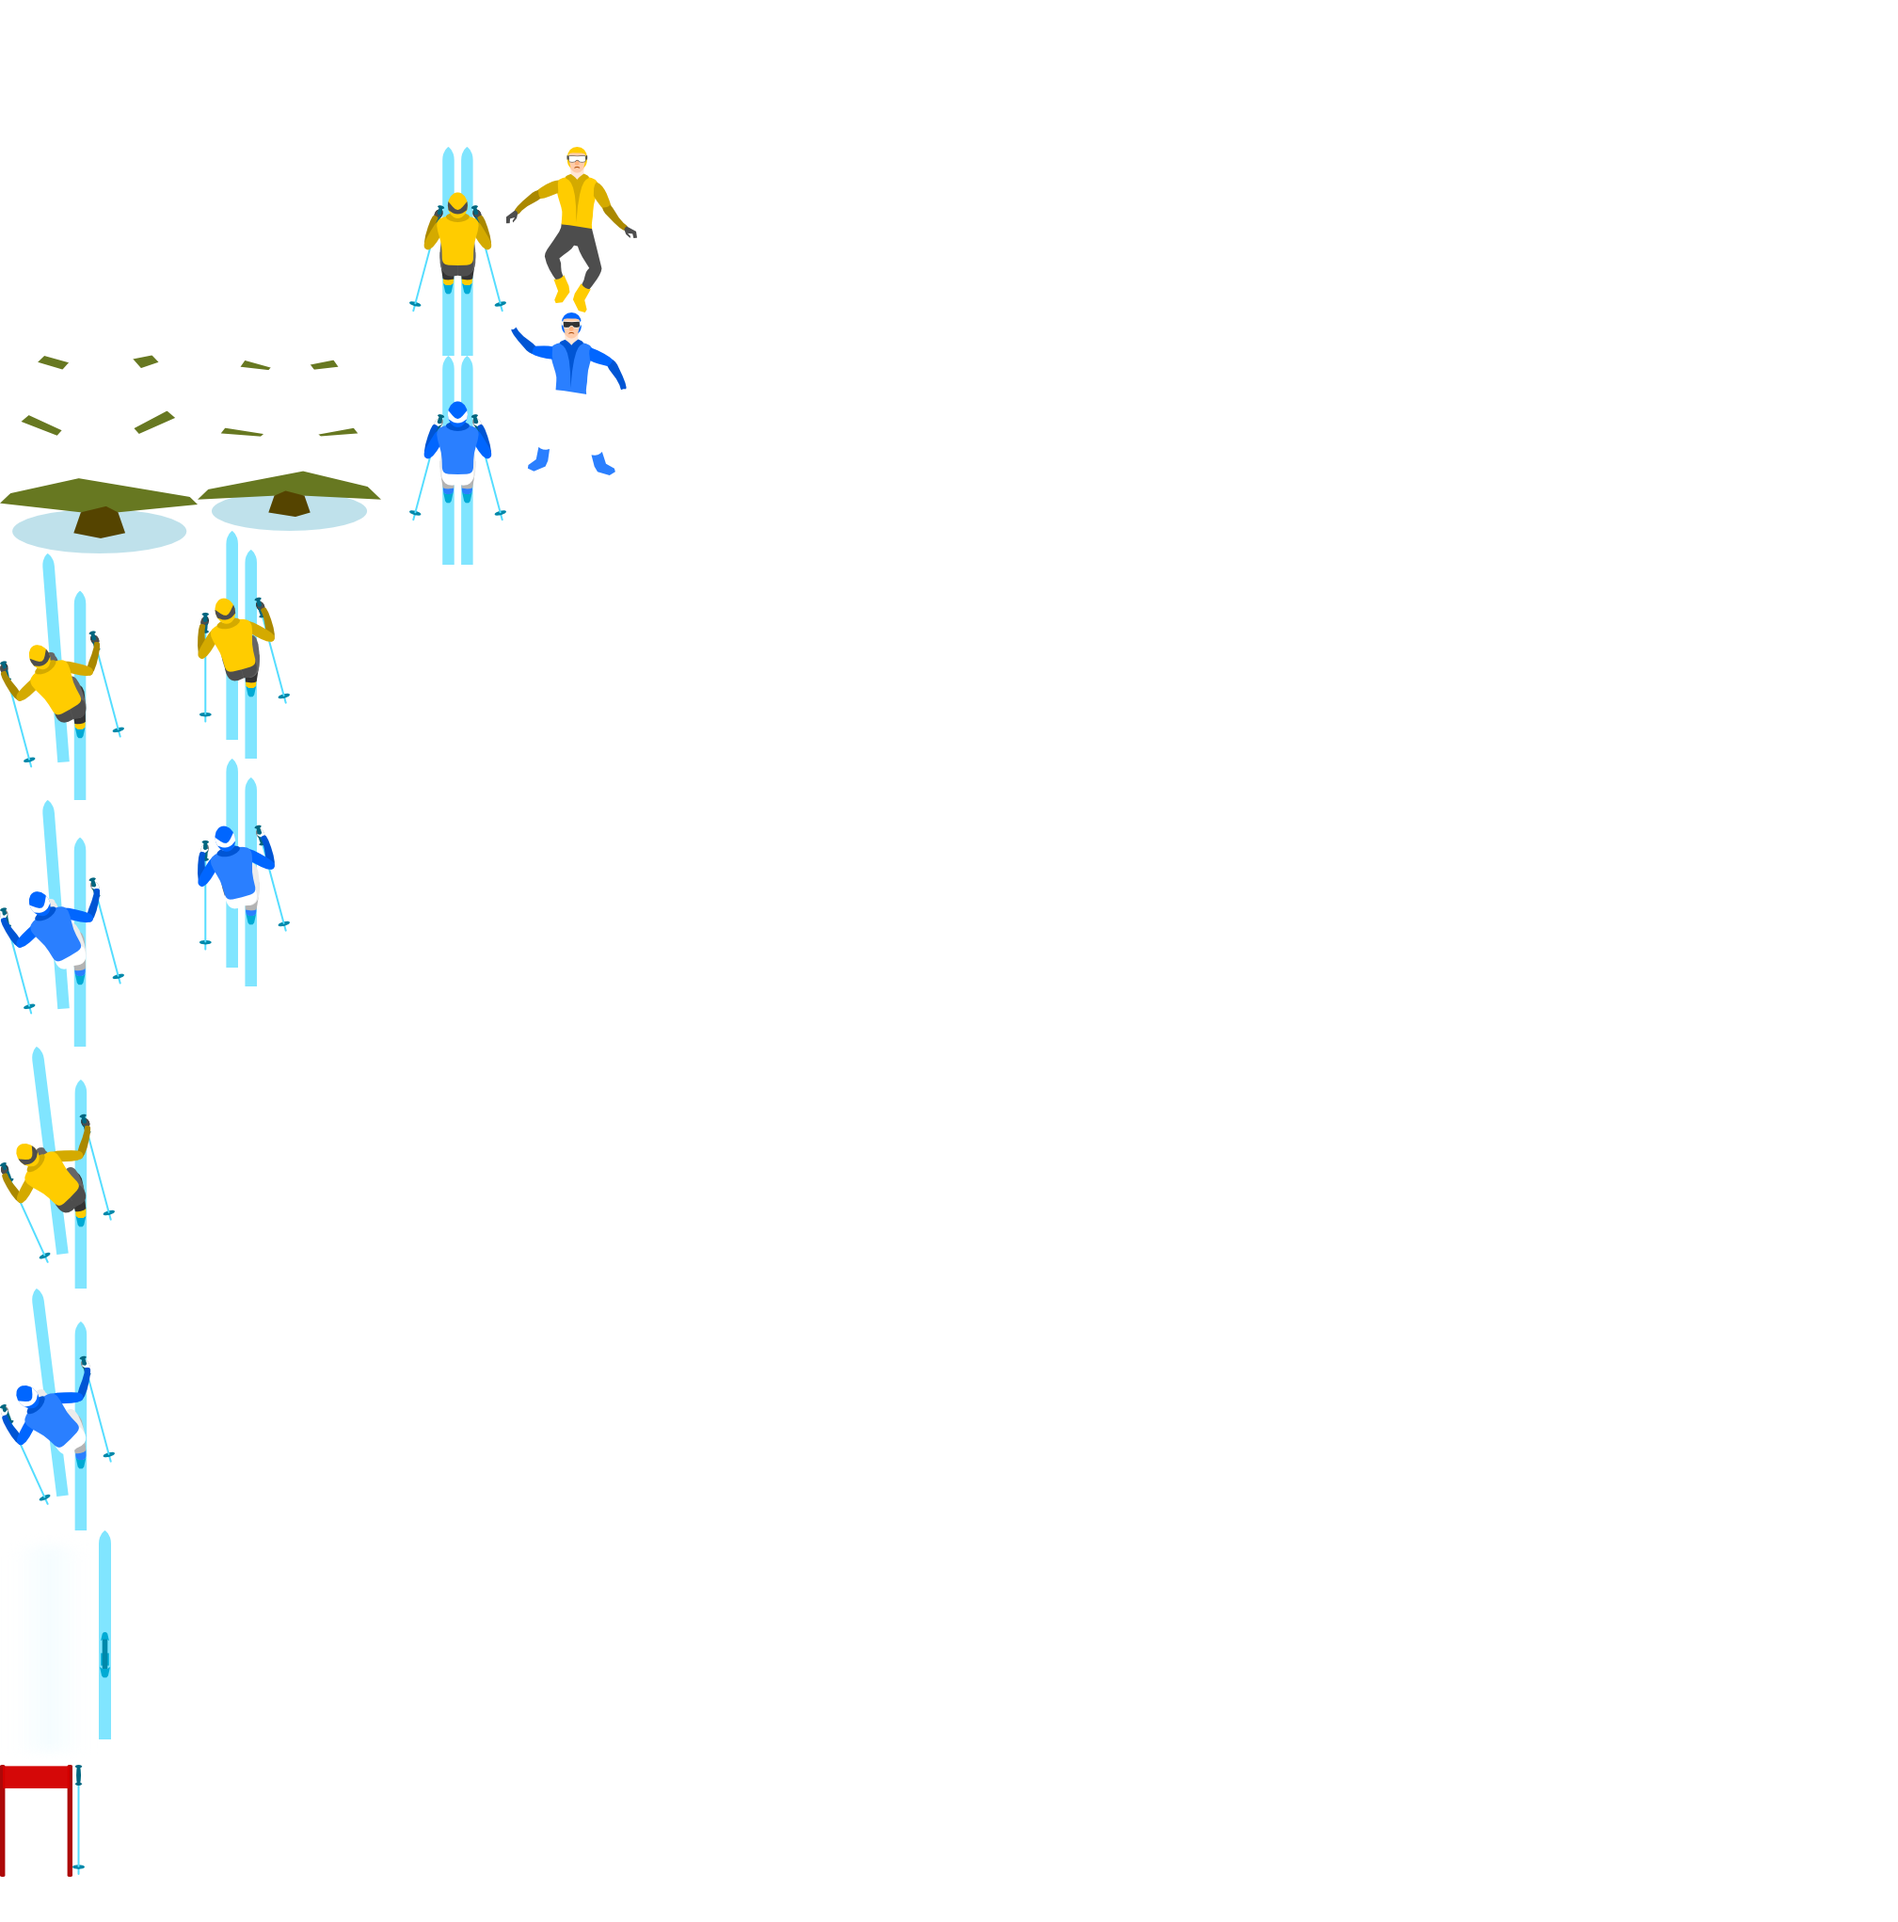
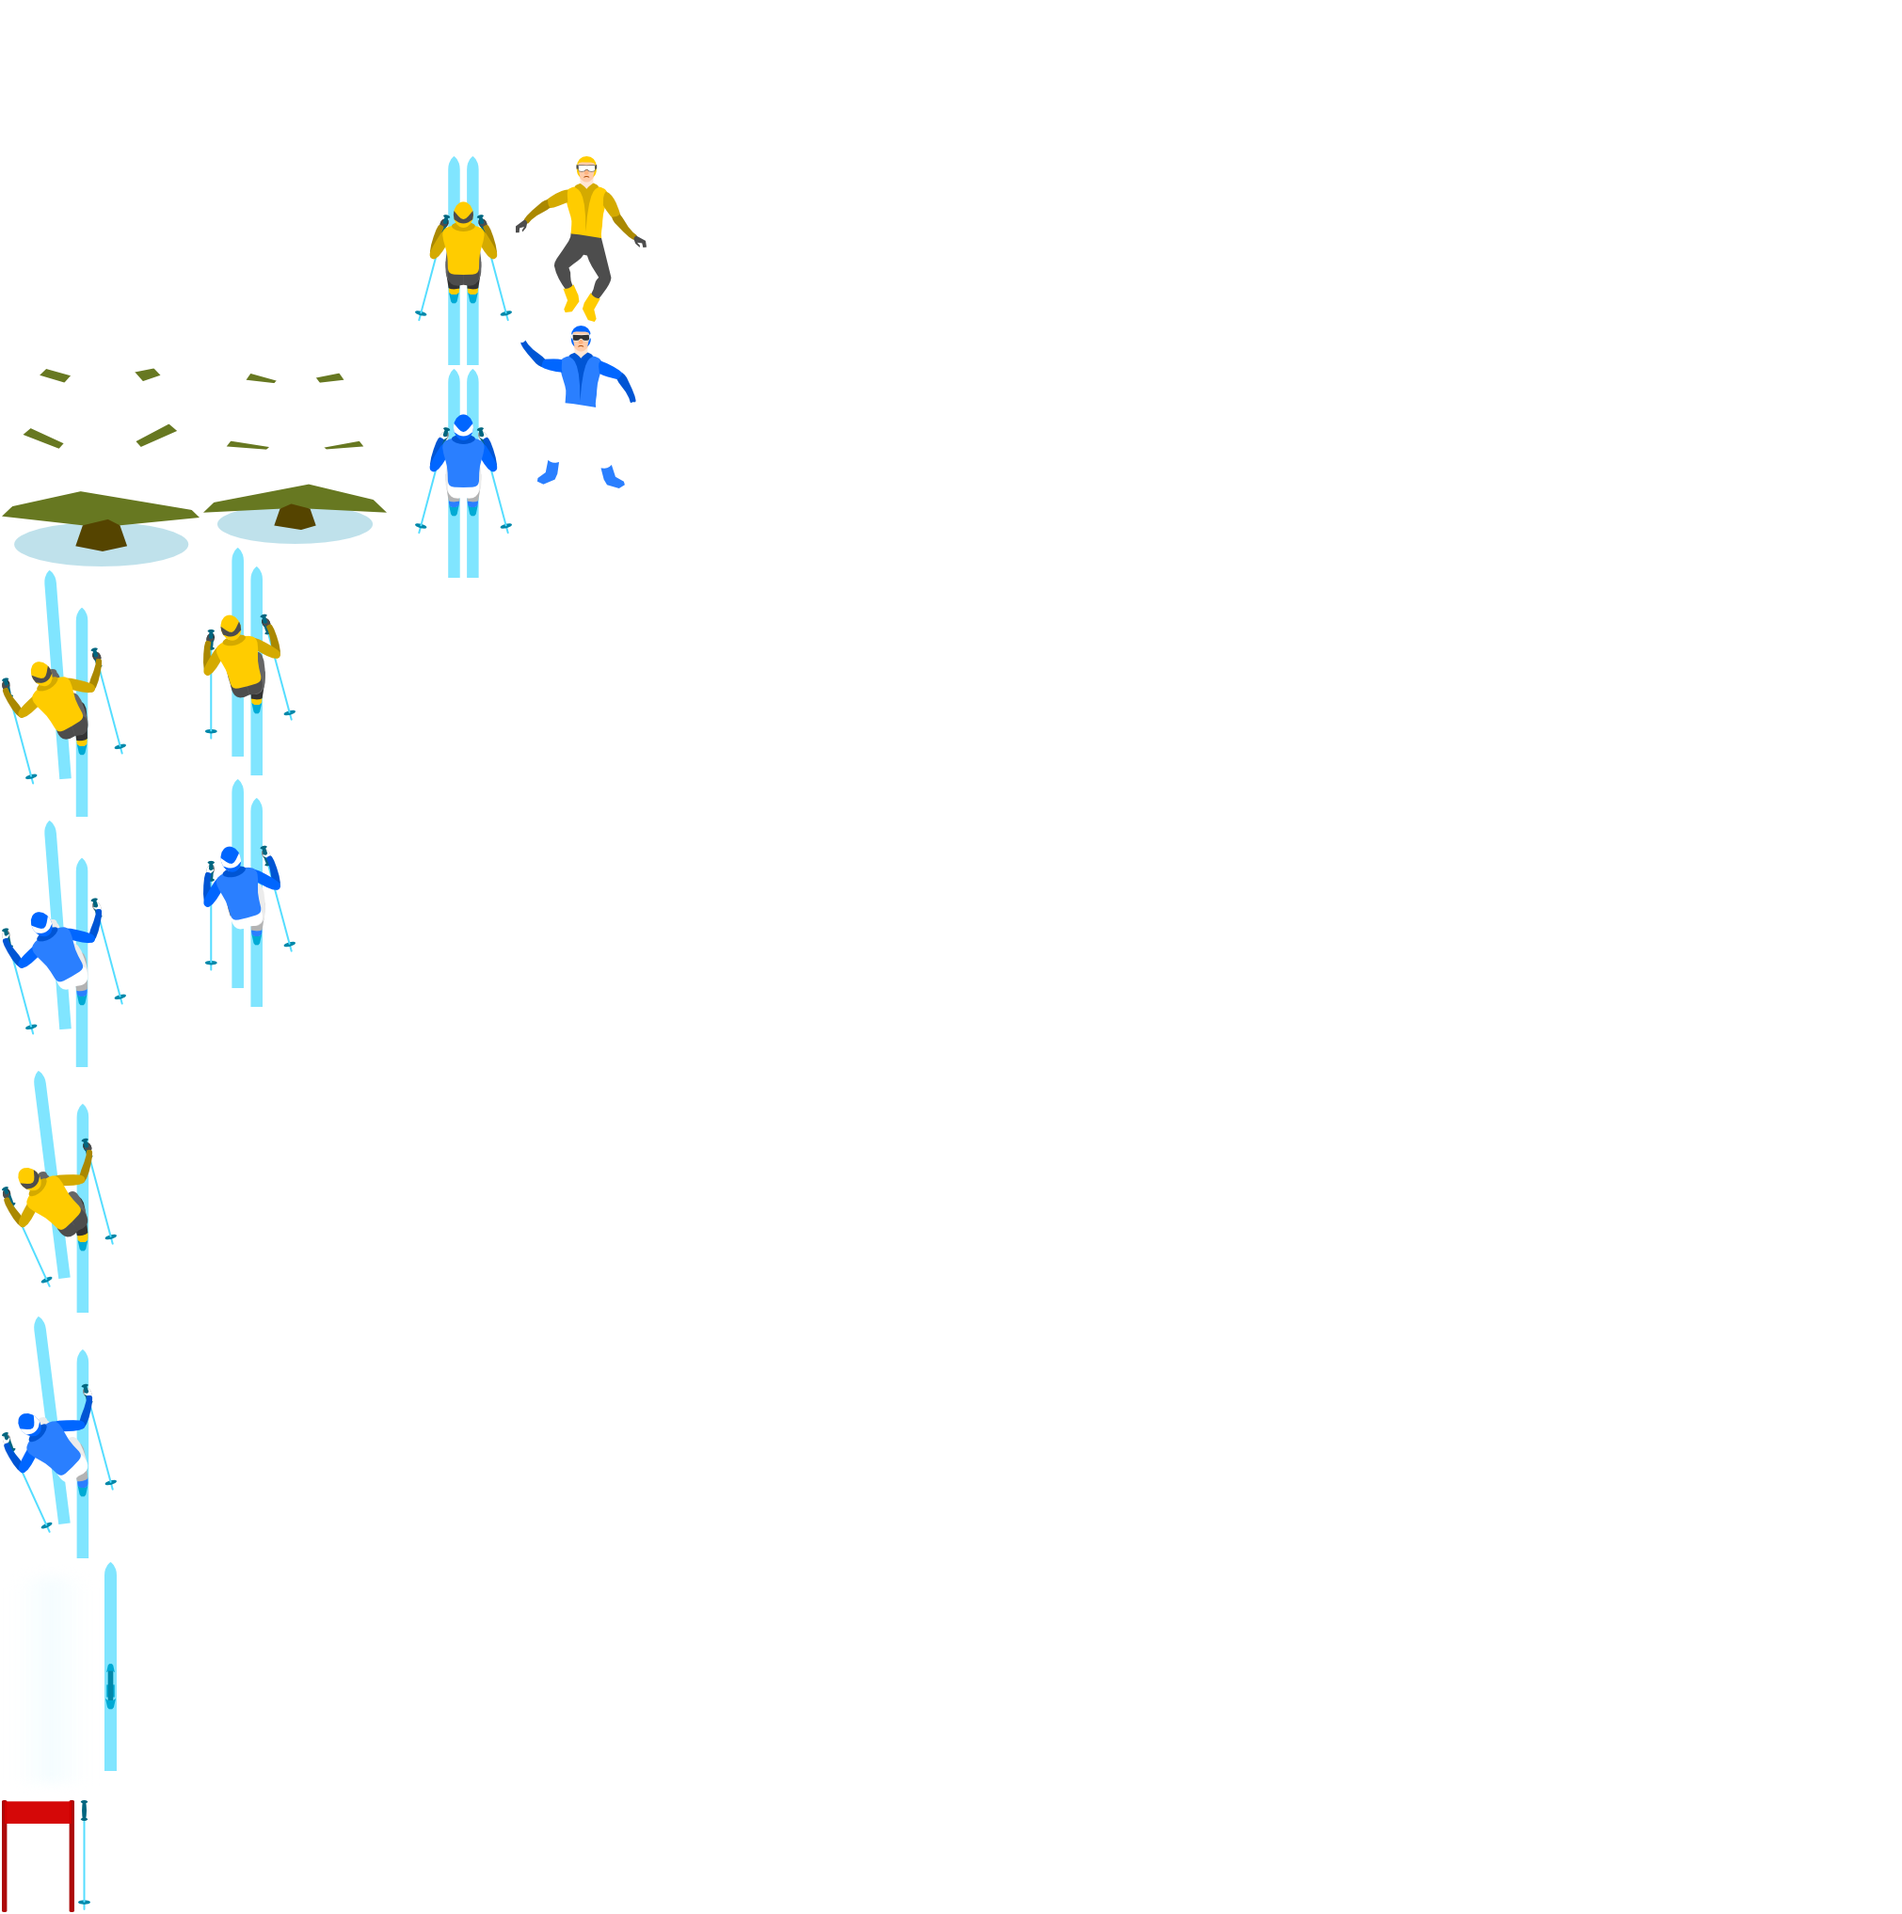
Use border in atlas
Without that, some browsers will show artefacts of nearby images.

Changed region(s): [[0.0, 0.0619, 0.3436, 1.0]]

diff --git a/index.html b/index.html
@@ -95,150 +95,150 @@ var requestAnimFrame =
 	resources = {
 		skierBlueStraight: {
 			rotate: true,
-			rect: {/*skier-blue-straight*/x:435,y:378,w:103,h:222}
+			rect: {/*skier-blue-straight*/x:441,y:392,w:103,h:222}
 		},
 		skierBlueLeanLeft1: {
 			rotate: true,
-			rect: {/*skier-blue-lean1-left*/x:210,y:806,w:98,h:242}
+			rect: {/*skier-blue-lean1-left*/x:216,y:828,w:98,h:242}
 		},
 		skierBlueLeanLeft2: {
 			rotate: true,
-			rect: {/*skier-blue-lean2-left*/x:0,y:850,w:132,h:262}
+			rect: {/*skier-blue-lean2-left*/x:2,y:872,w:132,h:262}
 		},
 		skierBlueLeanLeft3: {
 			rotate: true,
-			rect: {/*skier-blue-lean3-left*/x:0,y:1369,w:122,h:257}
+			rect: {/*skier-blue-lean3-left*/x:2,y:1399,w:122,h:257}
 		},
 		skierBlueLeanRight1: {
 			mirror: true,
 			rotate: true,
-			rect: {/*skier-blue-lean1-left*/x:210,y:806,w:98,h:242}
+			rect: {/*skier-blue-lean1-left*/x:216,y:828,w:98,h:242}
 		},
 		skierBlueLeanRight2: {
 			mirror: true,
 			rotate: true,
-			rect: {/*skier-blue-lean2-left*/x:0,y:850,w:132,h:262}
+			rect: {/*skier-blue-lean2-left*/x:2,y:872,w:132,h:262}
 		},
 		skierBlueLeanRight3: {
 			mirror: true,
 			rotate: true,
-			rect: {/*skier-blue-lean3-left*/x:0,y:1369,w:122,h:257}
+			rect: {/*skier-blue-lean3-left*/x:2,y:1399,w:122,h:257}
 		},
 		skierBlueCrashed: {
 			rotate: true,
-			rect: {/*skier-blue-crashed*/x:538,y:332,w:130,h:173}
+			rect: {/*skier-blue-crashed*/x:548,y:346,w:130,h:173}
 		},
 		skierYellowStraight: {
 			rotate: true,
-			rect: {/*skier-yellow-straight*/x:435,y:156,w:103,h:222}
+			rect: {/*skier-yellow-straight*/x:441,y:166,w:103,h:222}
 		},
 		skierYellowLeanLeft1: {
 			rotate: true,
-			rect: {/*skier-yellow-lean1-left*/x:210,y:564,w:98,h:242}
+			rect: {/*skier-yellow-lean1-left*/x:216,y:582,w:98,h:242}
 		},
 		skierYellowLeanLeft2: {
 			rotate: true,
-			rect: {/*skier-yellow-lean2-left*/x:0,y:588,w:132,h:262}
+			rect: {/*skier-yellow-lean2-left*/x:2,y:606,w:132,h:262}
 		},
 		skierYellowLeanLeft3: {
 			rotate: true,
-			rect: {/*skier-yellow-lean3-left*/x:0,y:1112,w:122,h:257}
+			rect: {/*skier-yellow-lean3-left*/x:2,y:1138,w:122,h:257}
 		},
 		skierYellowLeanRight1: {
 			mirror: true,
 			rotate: true,
-			rect: {/*skier-yellow-lean1-left*/x:210,y:564,w:98,h:242}
+			rect: {/*skier-yellow-lean1-left*/x:216,y:582,w:98,h:242}
 		},
 		skierYellowLeanRight2: {
 			mirror: true,
 			rotate: true,
-			rect: {/*skier-yellow-lean2-left*/x:0,y:588,w:132,h:262}
+			rect: {/*skier-yellow-lean2-left*/x:2,y:606,w:132,h:262}
 		},
 		skierYellowLeanRight3: {
 			mirror: true,
 			rotate: true,
-			rect: {/*skier-yellow-lean3-left*/x:0,y:1112,w:122,h:257}
+			rect: {/*skier-yellow-lean3-left*/x:2,y:1138,w:122,h:257}
 		},
 		skierYellowCrashed: {
 			rotate: true,
-			rect: {/*skier-yellow-crashed*/x:538,y:156,w:139,h:176}
+			rect: {/*skier-yellow-crashed*/x:548,y:166,w:139,h:176}
 		},
 		pole: {
 			rotate: true,
-			rect: {/*pole*/x:77,y:1875,w:13,h:117}
+			rect: {/*pole*/x:83,y:1913,w:13,h:117}
 		},
 		ski: {
 			rotate: true,
-			rect: {/*ski*/x:105,y:1626,w:13,h:222}
+			rect: {/*ski*/x:111,y:1660,w:13,h:222}
 		},
 		skiMarks: {
 			rotate: true,
-			rect: {/*ski-marks*/x:0,y:1626,w:105,h:249}
+			rect: {/*ski-marks*/x:2,y:1660,w:105,h:249}
 		},
 		tree1: {
-			rect: {/*tree1*/x:210,y:308,w:195,h:256}
+			rect: {/*tree1*/x:216,y:322,w:195,h:256}
 		},
 		tree1UpsideDown: {
 			upsideDown: true,
-			rect: {/*tree1*/x:210,y:308,w:195,h:256}
+			rect: {/*tree1*/x:216,y:322,w:195,h:256}
 		},
 		tree2: {
-			rect: {/*tree2*/x:0,y:308,w:210,h:280}
+			rect: {/*tree2*/x:2,y:322,w:210,h:280}
 		},
 		tree2UpsideDown: {
 			upsideDown: true,
-			rect: {/*tree2*/x:0,y:308,w:210,h:280}
+			rect: {/*tree2*/x:2,y:322,w:210,h:280}
 		},
 		hills: {
-			rect: {/*hills*/x:0,y:156,w:435,h:152}
+			rect: {/*hills*/x:2,y:166,w:435,h:152}
 		},
 		hillsUpsideDown: {
 			upsideDown: true,
-			rect: {/*hills*/x:0,y:156,w:435,h:152}
+			rect: {/*hills*/x:2,y:166,w:435,h:152}
 		},
 		goal: {
-			rect: {/*goal*/x:0,y:1875,w:77,h:119}
+			rect: {/*goal*/x:2,y:1913,w:77,h:119}
 		},
 		goalUpsideDown: {
 			upsideDown: true,
-			rect: {/*goal*/x:0,y:1875,w:77,h:119}
+			rect: {/*goal*/x:2,y:1913,w:77,h:119}
 		},
 		start: {
-			rect: {/*start*/x:0,y:0,w:2017,h:78}
+			rect: {/*start*/x:2,y:2,w:2017,h:78}
 		},
 		startUpsideDown: {
 			upsideDown: true,
-			rect: {/*start*/x:0,y:0,w:2017,h:78}
+			rect: {/*start*/x:2,y:2,w:2017,h:78}
 		},
 		finish: {
-			rect: {/*finish*/x:0,y:78,w:2017,h:78}
+			rect: {/*finish*/x:2,y:84,w:2017,h:78}
 		},
 		finishUpsideDown: {
 			upsideDown: true,
-			rect: {/*finish*/x:0,y:78,w:2017,h:78}
+			rect: {/*finish*/x:2,y:84,w:2017,h:78}
 		},
 		flake1: {
-			rect: {/*flake1*/x:48,y:1994,w:26,h:26}
+			rect: {/*flake1*/x:138,y:878,w:26,h:26}
 		},
 		flake2: {
-			rect: {/*flake2*/x:132,y:758,w:30,h:30}
+			rect: {/*flake2*/x:138,y:844,w:30,h:30}
 		},
 		flake3: {
-			rect: {/*flake3*/x:132,y:724,w:34,h:34}
+			rect: {/*flake3*/x:138,y:806,w:34,h:34}
 		},
 		flake4: {
-			rect: {/*flake4*/x:132,y:684,w:40,h:40}
+			rect: {/*flake4*/x:138,y:762,w:40,h:40}
 		}
 	},
 	hudResources = {
 		toggle: {
-			rect: {/*toggle*/x:0,y:1994,w:48,h:48}
+			rect: {/*toggle*/x:138,y:606,w:48,h:48}
 		},
 		left: {
-			rect: {/*left*/x:132,y:636,w:48,h:48},
+			rect: {/*left*/x:138,y:710,w:48,h:48},
 		},
 		right: {
-			rect: {/*right*/x:132,y:588,w:48,h:48},
+			rect: {/*right*/x:138,y:658,w:48,h:48},
 		}
 	},
 	atlas,
